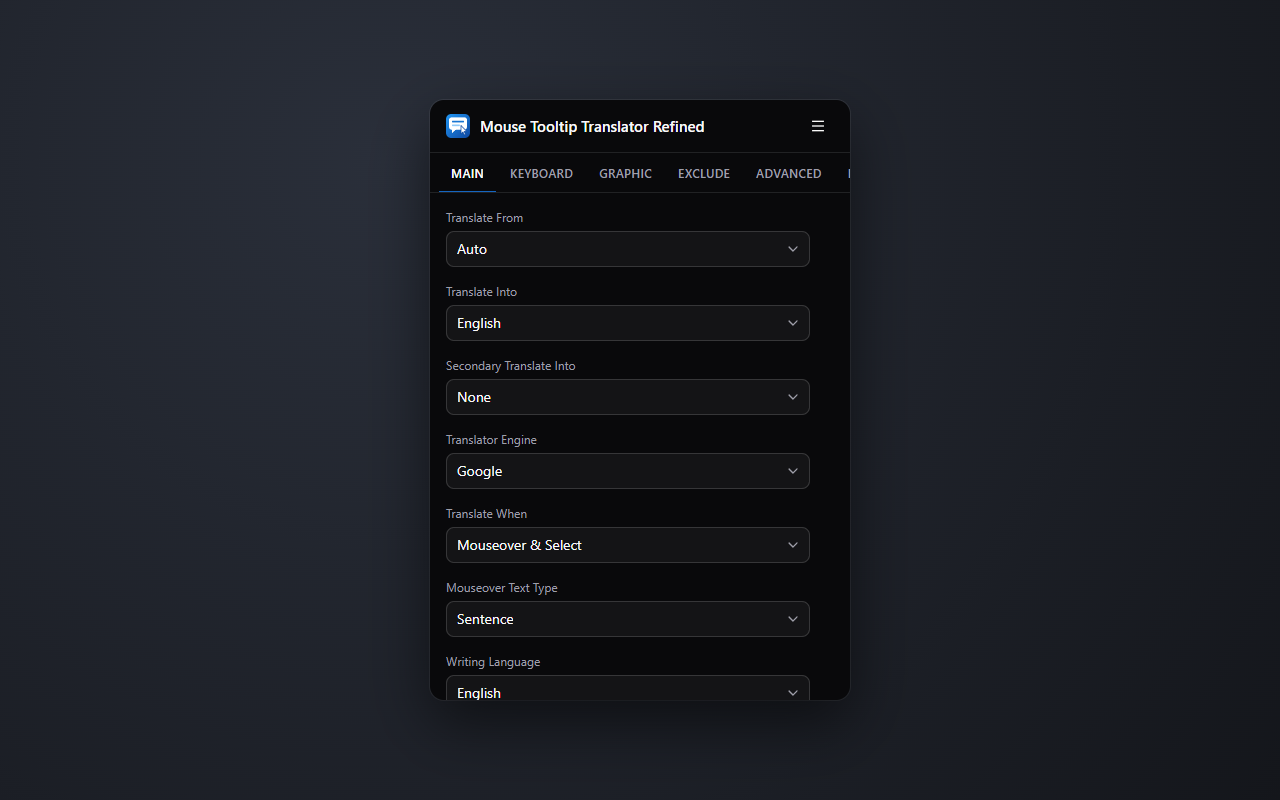
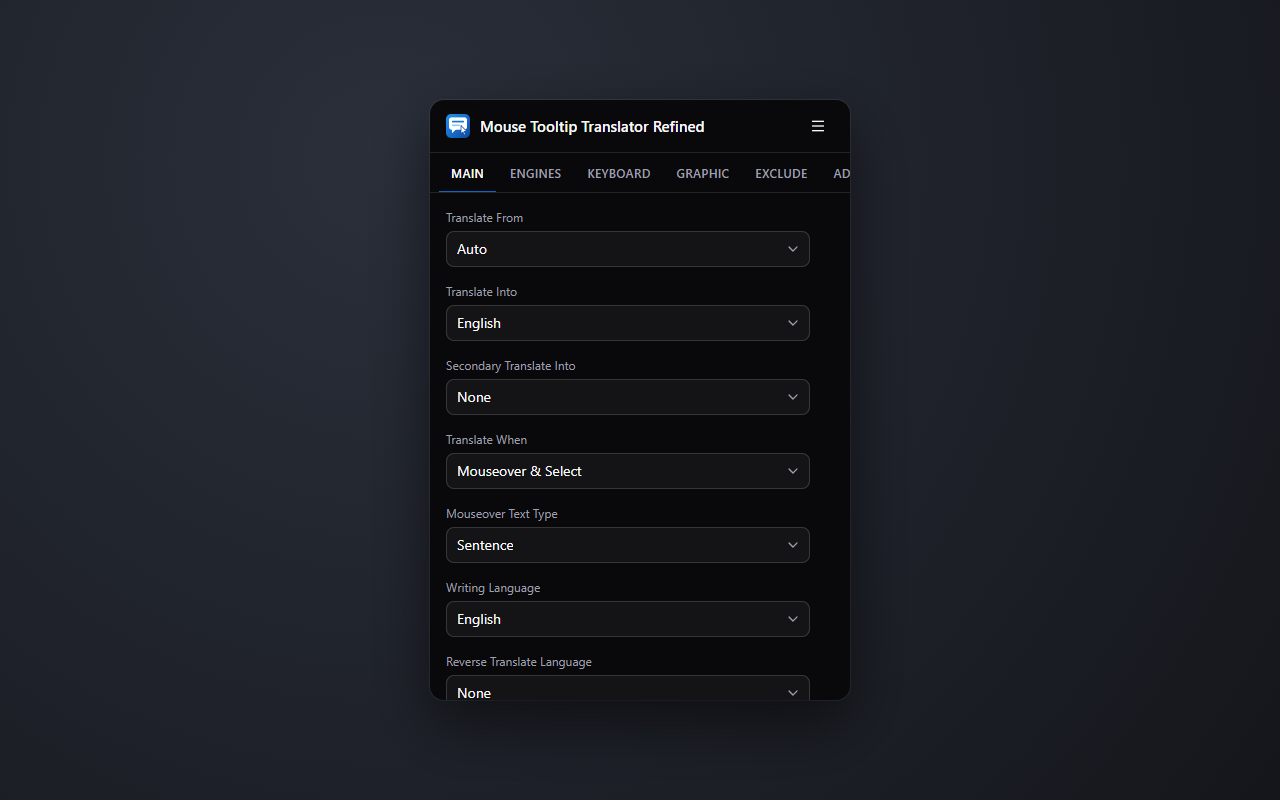
Docs and screenshots for the engines tab and translation cache

diff --git a/CLAUDE.md b/CLAUDE.md
@@ -36,7 +36,7 @@ pnpm typecheck        # svelte-check (TS 포함)
   - 출력명(`pdf.html`, `reader.html`, `googleDocInject.js`)은 content script가 경로로 판별하거나 `getURL()`로 참조하니 바꾸지 말 것.
   - 진입점 폴더의 하위 모듈 이름을 `index.ts`로 짓지 않는다. WXT가 `entrypoints/*/index.*`를 진입점으로 읽는다. `entrypoints/` 바로 아래에 새 `.ts`를 두어도 unlisted 스크립트가 된다.
 - `src/content/`: 툴팁(Shadow DOM), 텍스트 감지(`detect/`), 키 처리, 입력창/페이지 번역, 사이트 필터, Google Docs, 웹 PDF 가로채기. 뷰어 페이지도 `startContentScript`/`watchSelection`을 가져다 쓴다.
-- `src/translators/`: 번역 엔진(`engine.ts`의 `defineEngine`), `registry.ts`, `parse.ts`(`matchOrThrow`/`required`: 응답 형식이 바뀌면 throw해서 실패로 처리), `index.ts`의 `translate()`(캐시, 역번역, 사전, 폴백 엔진과 언어쌍별 쿨다운 #363). background에서만 실행된다(DOM 없음).
+- `src/translators/`: 엔진마다 폴더 하나(`<id>/meta.ts` + `<id>/index.ts`). `meta.ts`는 가벼운 메타데이터(`defineEngineMeta`: 기본 순서, 설정 필드, 필수 여부, 키 발급 링크, 아바타 색/글자)라 설정 UI와 background가 함께 읽는다. 요청 코드(ky)는 넣지 않는다. `index.ts`는 요청 구현(background 전용, `engine.ts`의 `defineEngine`)이고, 공식 API 키가 선택인 엔진은 `web.ts`/`api.ts`를 `preferApi`로 묶는다. `catalog.ts`(`./*/meta.ts`)와 `registry.ts`(`./*/index.ts`)가 `import.meta.glob`으로 모으니, 엔진 추가는 폴더 추가로 끝난다(`catalog.test.ts`가 짝과 i18n 키를 검사). `parse.ts`(`matchOrThrow`/`required`: 응답 형식이 바뀌면 throw해서 실패로 처리), `cache.ts`(메모리 LRU + IndexedDB 번역 캐시, 30일), `index.ts`의 `translate()`(켜진 엔진을 위에서부터 시도, 역번역, 사전, 언어쌍별 쿨다운 #363). background에서만 실행된다(DOM 없음).
 - `modules/pdfjs-assets.ts`: 로컬 WXT 모듈. pdf.js worker·cmaps·폰트·wasm을 빌드 결과 `pdfjs/`로 복사한다.
 - `src/components/`: 공용 Svelte 컴포넌트. `ui/`는 shadcn-svelte가 생성한 파일이다.
 - `src/utils/`: `settings/`(스키마 + 저장소), `messaging.ts`, `i18n.ts`, `lang.ts`, `text.ts`, `async.ts`, `page.ts`(확장 페이지 공통 부팅 `bootPage`), `colorScheme.svelte.ts`, `pdfViewer.ts`(`pdf.html?file=` URL), `download.ts`, `cn.ts`(shadcn 별칭).
@@ -65,15 +65,16 @@ pnpm typecheck        # svelte-check (TS 포함)
 
 ### 설정
 - `src/utils/settings/schema.ts`의 `settingSchema`에 항목을 추가하면 설정 화면이 자동으로 렌더한다.
-  - `optionType`: `select`(기본), `toggle`, `multipleSelect`, `comboBox`, `fontSelect`, `colorPicker`, `textField`, `llmModelSelect`, `button`, `hidden`
+  - `optionType`: `select`(기본), `toggle`, `multipleSelect`, `comboBox`, `fontSelect`, `colorPicker`, `textField`, `engineList`(ENGINES 탭의 엔진 목록), `button`, `hidden`
   - `settingTab`, `visibleWhen`, 선언 순서가 화면 배치를 정한다.
 - 값은 타입이 있다. 토글은 boolean, 크기·시간은 number, 키와 언어는 문자열(`"null"` = 없음)이다.
 - 저장은 `local:settings` 하나에 바뀐 값만 넣고, 읽을 때 기본값과 합친다. 쓰는 API는 `getSettings`, `updateSettings`, `watchSettings`, `resetSettings`, `importSettings`, `exportSettings`다.
-- `syncSetting`이 켜지면 `sync:settings`로 미러한다. LLM 키는 동기화하지 않는다.
+- `syncSetting`이 켜지면 `sync:settings`로 미러한다. `engineConfig`(API 키, LLM 설정)는 통째로 동기화하지 않는다.
+- `local:settings`는 `version: 2`다. 스키마 키를 바꾸면 `migrate.ts`에 마이그레이션을 추가하고 버전을 올린다.
 - content script는 설정을 읽기만 한다. 사이트별 대상 언어(#262)는 그 자리에서 유효 설정으로 계산한다.
 
 ### 메시징
-- `src/utils/messaging.ts`의 ProtocolMap(`@webext-core/messaging`)만 쓴다. 메시지는 `translate`, `tooltipShown`, `copyText` 세 가지다. 새 메시지가 필요하면 여기에 타입을 추가한다.
+- `src/utils/messaging.ts`의 ProtocolMap(`@webext-core/messaging`)만 쓴다. 메시지는 `translate`, `tooltipShown`, `translationCache`, `copyText` 네 가지다. 새 메시지가 필요하면 여기에 타입을 추가한다.
 - 설정 리셋/가져오기/내보내기는 popup이 스토리지에 직접 하므로 메시지가 필요 없다.
 
 ### content script

diff --git a/README.md b/README.md
@@ -10,12 +10,13 @@ Hover or select text on any page to see its translation in a tooltip.
 - Translate what you type in a text field (Right Alt)
 - Translate the whole page with a shortcut
 - Built-in PDF viewer and ebook reader (EPUB, MOBI, FB2, CBZ) with the same tooltips
-- Google, Bing, DeepL, Yandex, Baidu, Papago, the browser's built-in translator, or any OpenAI-compatible LLM
+- An ordered list of engines with automatic fallback: Google, Bing, DeepL, Papago, Yandex, Baidu, the browser's built-in translator, Kakao i, LibreTranslate, or any OpenAI-compatible LLM. Add your own DeepL, Papago (Naver Cloud), Google Cloud or Microsoft Translator API key to use the official API
+- Translations are cached for 30 days, so the same text isn't sent again
 - Per-site target language, site and language exclusions, settings sync
 
-| Settings | PDF viewer |
-| --- | --- |
-| ![Settings](docs/screenshots/settings-light.png) | ![PDF viewer](docs/screenshots/pdf-viewer.png) |
+| Settings | Engines | PDF viewer |
+| --- | --- | --- |
+| ![Settings](docs/screenshots/settings-light.png) | ![Engines](docs/screenshots/engines.png) | ![PDF viewer](docs/screenshots/pdf-viewer.png) |
 
 ## Usage
 

diff --git a/docs/privacy.md b/docs/privacy.md
@@ -1,5 +1,6 @@
 # Privacy
 
-- Text you hover, select or type is sent only to the translation engine you choose in the settings, or to the LLM endpoint you configure.
-- Settings stay in your browser. If you turn on settings sync, they sync through your browser account. API keys are never synced.
+- Text you hover, select or type is sent only to the translation engines you enable in the settings, tried in your order until one answers (or to the LLM endpoint or LibreTranslate server you configure).
+- Finished translations are cached in your browser (IndexedDB) for 30 days so the same text isn't sent again. You can turn the cache off or clear it in the Engines tab.
+- Settings stay in your browser. If you turn on settings sync, they sync through your browser account. API keys and engine settings are never synced.
 - Nothing is collected, stored or shared anywhere else.
